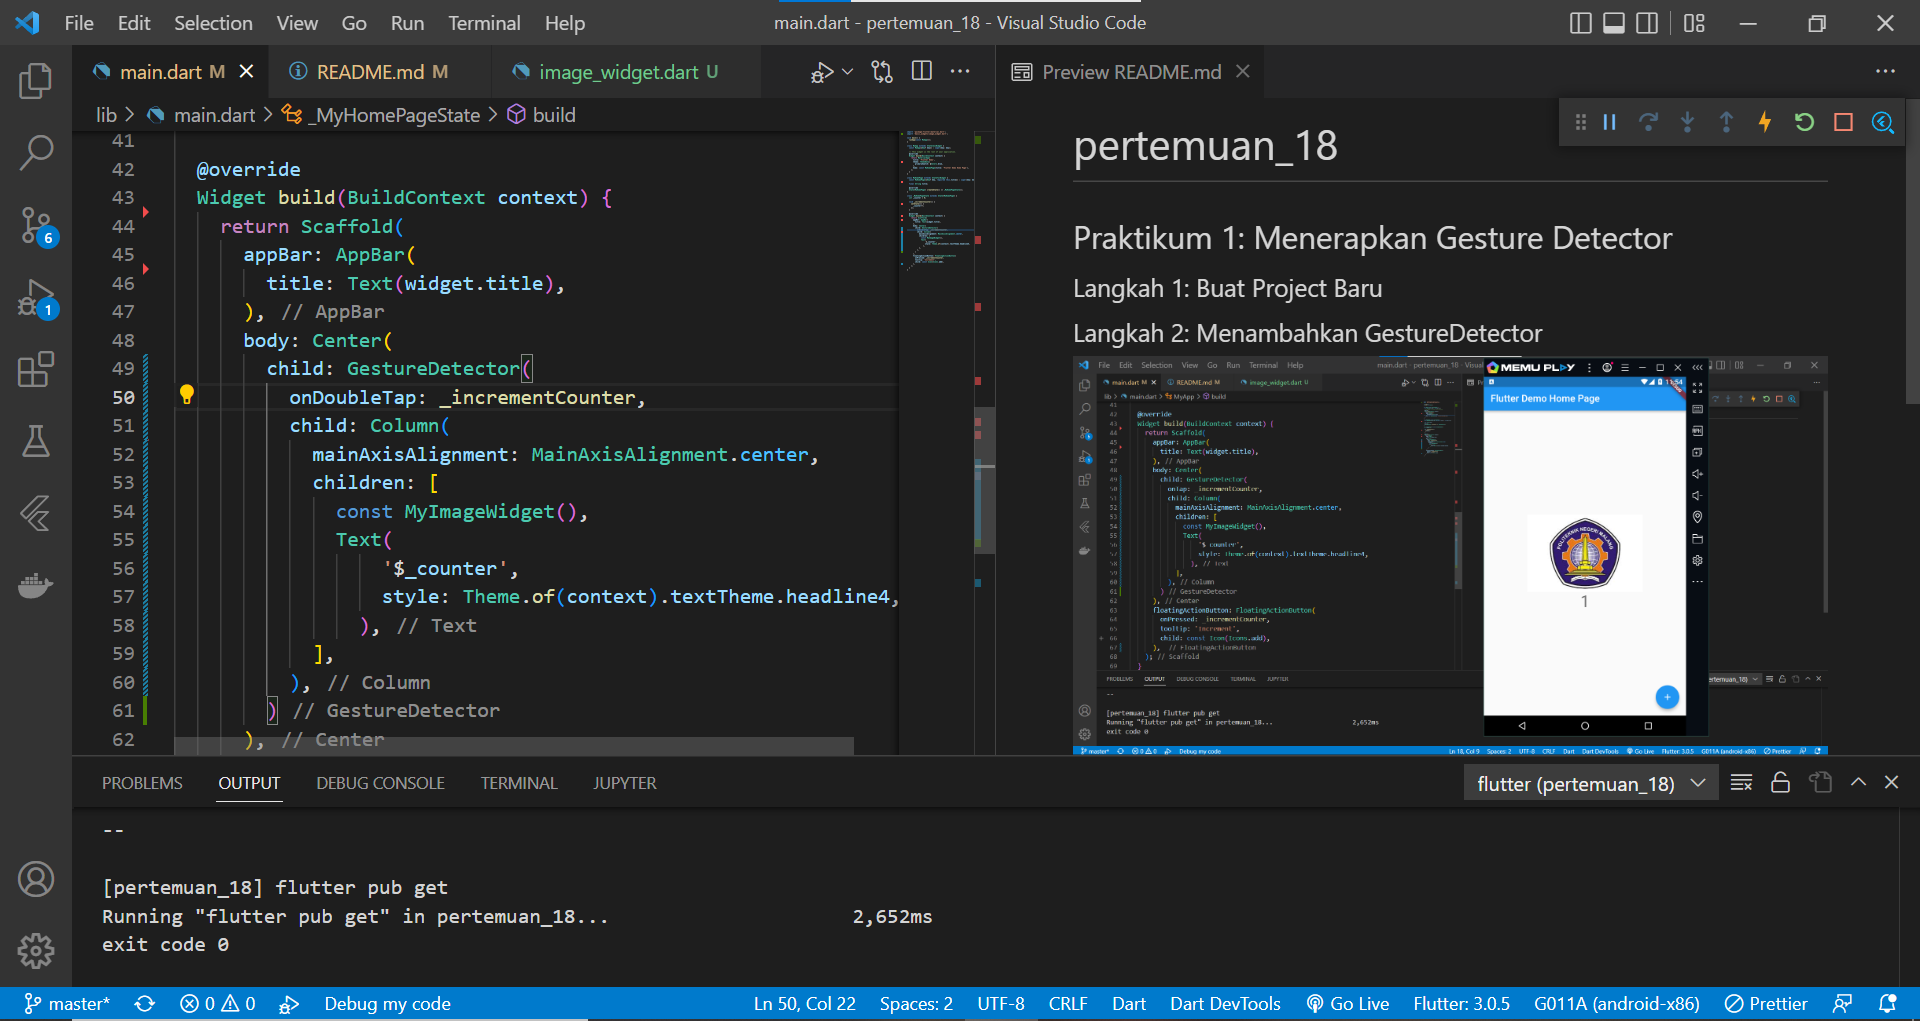
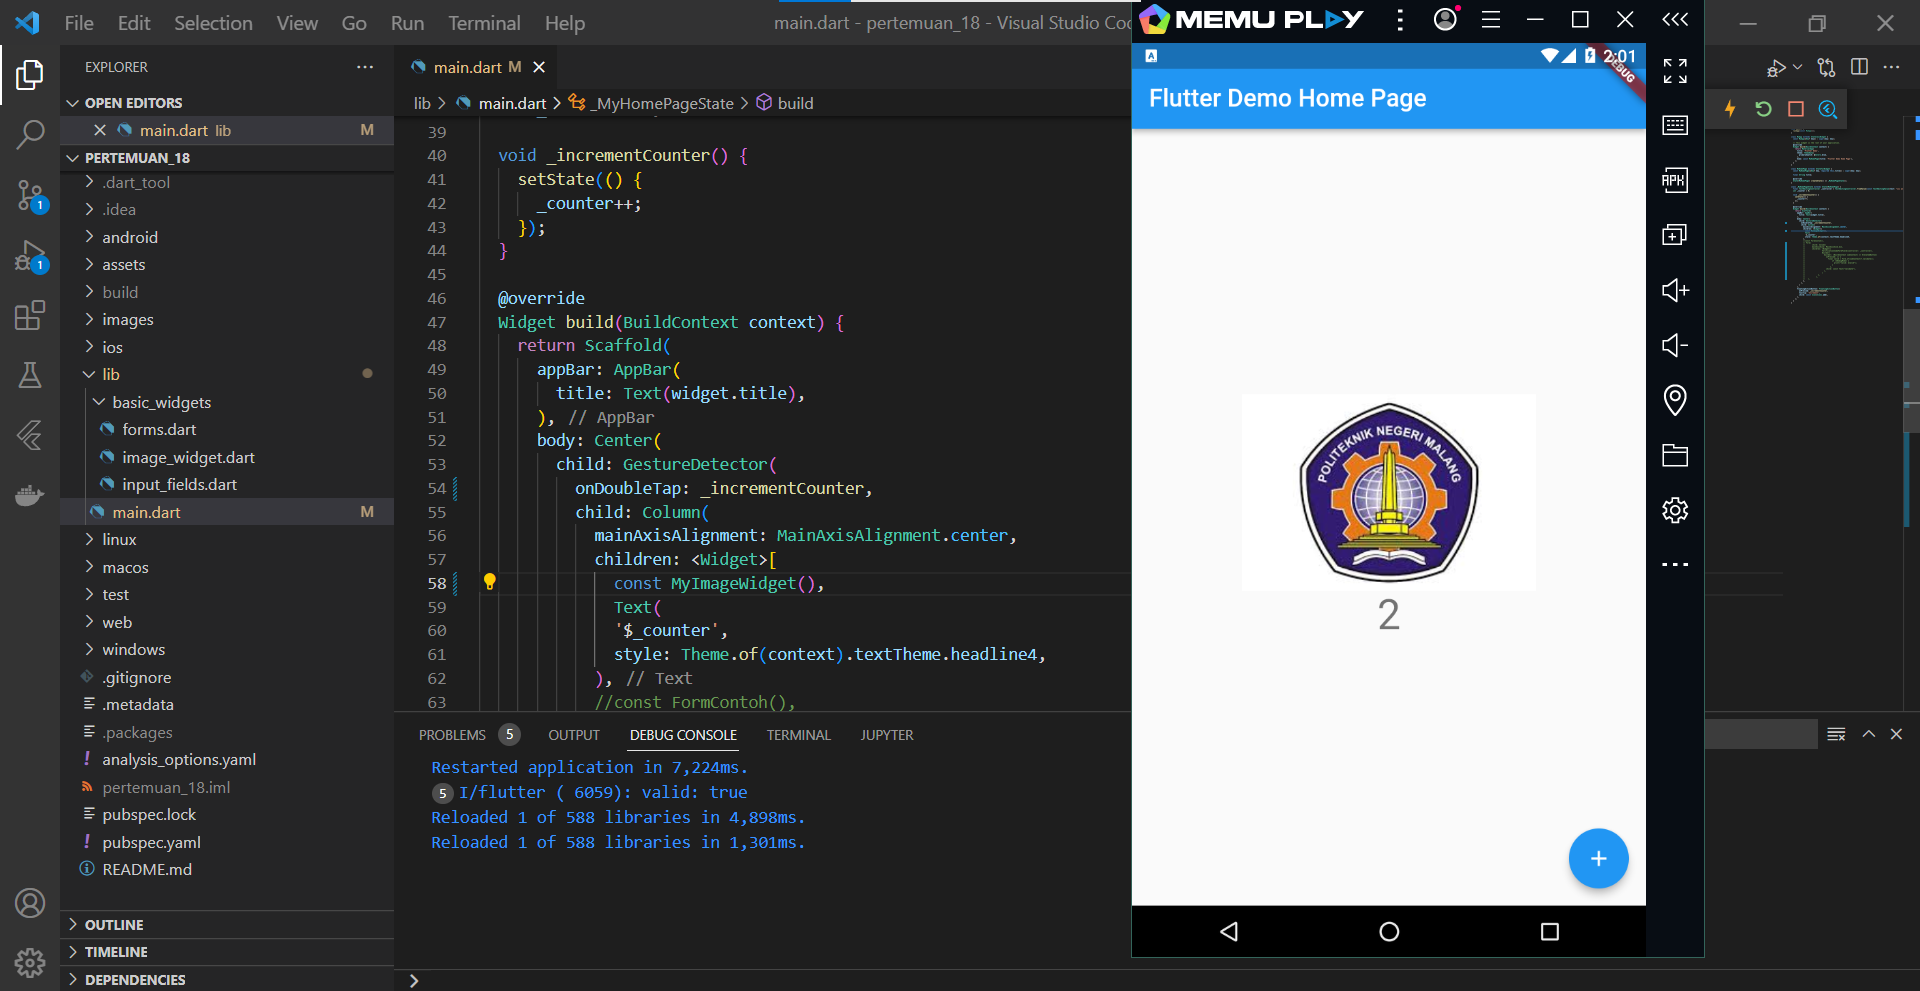
image

diff --git a/lib/main.dart b/lib/main.dart
@@ -51,35 +51,35 @@ class _MyHomePageState extends State<MyHomePage> {
       ),
       body: Center(
         child: GestureDetector(
-          onLongPress: _incrementCounter,
+          onDoubleTap: _incrementCounter,
           child: Column(
             mainAxisAlignment: MainAxisAlignment.center,
             children: <Widget>[
-              const Text('You have pushed the button this many times: '),
+              const MyImageWidget(),
               Text(
               '$_counter',
               style: Theme.of(context).textTheme.headline4,
             ),
             //const FormContoh(),
-            Form(
-                  child: Column(
-                  mainAxisSize: MainAxisSize.min,
-                  children: <Widget>[
-                            VerificationCodeFormField(controller: _controller),
-                            Builder(
-                              builder: (BuildContext subContext) => ElevatedButton(
-                                onPressed: () {
-                                  final valid = Form.of(subContext)?.validate();
-                                      if (kDebugMode) {
-                                        print("valid: $valid");
-                                      }
-                                    },
-                                child: const Text("validate"),
-                              ),
-                            )
-                        ],
-                      ),
-              ),
+            // Form(
+            //       child: Column(
+            //       mainAxisSize: MainAxisSize.min,
+            //       children: <Widget>[
+            //                 VerificationCodeFormField(controller: _controller),
+            //                 Builder(
+            //                   builder: (BuildContext subContext) => ElevatedButton(
+            //                     onPressed: () {
+            //                       final valid = Form.of(subContext)?.validate();
+            //                           if (kDebugMode) {
+            //                             print("valid: $valid");
+            //                           }
+            //                         },
+            //                     child: const Text("validate"),
+            //                   ),
+            //                 )
+            //             ],
+            //           ),
+            //   ),
             ],
           ),
         )
